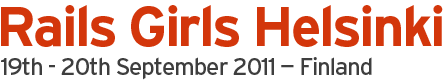
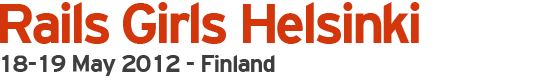
Helsinki updates

diff --git a/helsinki.html b/helsinki.html
@@ -3,7 +3,7 @@
 <head>
 <meta charset="utf-8">
  
-  <title>Helsinki on 23rd -24th March 2012 - Rails Girls</title>
+  <title>Helsinki on 18th-19th May 2012 - Rails Girls</title>
   <meta name="description" content="Women, join the Internet playground. One day crash-course to the exciting world of building web applications.">
   <meta name="author" content="Rails Girls">
  
@@ -31,6 +31,7 @@
             <a href="./materials.html">Materials</a>
             <a href="./press.html">Press</a>
             <a href="http://blog.railsgirls.com">Blog</a>  
+            <a href="http://guides.railsgirls.com">Guide</a>  
         </nav>
     </div>
     </header>
@@ -40,9 +41,9 @@
     <div id="container" class="container_12 page clearfix">
       <div class="grid_12 omega alpha">
         <div id="promo">
-        <h1>Rails Girls Helsinki 23-24th March 2012  - Finland</h1>
+        <h1>Rails Girls Helsinki 18-19th May 2012  - Finland</h1>
         <p>Women, join the Internet playground. One-day crash-course  
-          to the exciting world of building web applications with Ruby on Rails. 
+          to the exciting world of building web applications with Ruby on Rails. <a href="http://railsgirls.wufoo.com/forms/k7x1s7/">Apply now!</a>
         </p>
         <p>
           <div id="share">
@@ -52,7 +53,7 @@
             </div>
 
             <div style="margin:0 15px 0 0;">
-              <a href="http://twitter.com/share" class="twitter-share-button" data-url="" data-text="Rails Girls Helsinki on 23-24th March" data-count="horizontal" data-via="railsgirls" data-related="karrisaarinen">
+              <a href="http://twitter.com/share" class="twitter-share-button" data-url="" data-text="Rails Girls Helsinki on 18-19th May" data-count="horizontal" data-via="railsgirls" data-related="railsgirls">
             Tweet</a>
               <script type="text/javascript" src="http://platform.twitter.com/widgets.js"></script>
             </div>
@@ -72,21 +73,53 @@
         <p><strong>You learn</strong> designing, prototyping and coding by doing it with help from our coaches.</p>
       </div>
       <div class="grid_4 omega feature">
-        <p><strong>You want to help?</strong> We are looking for volunteers and Rails coaches. <a href="mailto:team@railsgirls.com">Email us</a>.</p>
+        <p><strong>You want to help?</strong> We are looking for volunteers, sponsors and Rails coaches. <a href="mailto:linda@railsgirls.com">Email us</a>.</p>
       </div>
       
-    
+    <div class="grid_12 coaches">
+      <hr />
+      <h2>Helsinki coaches & team </h2>
+      
+        <a href="http://twitter.com/satusuuronen" class="grid_3">
+          <img src="./images/ruby-100.png">
+          Satu Suuronen, organizer
+          <small>@satusuuronen</small>
+        </a>
+        <a href="http://twitter.com/heinider" class="grid_3">
+          <img src="./images/ruby-100.png">
+          Heini Vesander, organizer
+          <small>@heinider</small>
+        </a>
+        <a href="https://twitter.com/#!/jukkajokelainen" class="grid_3">
+          <img src="./images/ruby-100.png">
+          Jukka Jokelainen, coach
+          <small>jukkajokelainen/small>
+        </a>
+        <a href="http://twitter.com/totobogy" class="grid_3"> 
+          <img src="./images/ruby-100.png">
+          Tushar Malhotra, coach
+          <small>@totobogy</small>
+        </a>
+        
+         <a href="http://twitter.com/lindaliukas" class="grid_3">
+            <img src="./images/ruby-100.png">
+            Linda Liukas, organizer
+            <small>@lindaliukas</small>
+          </a>
+        
+        
+    </div>
       
       <hr/>
       <div class="grid_6 alpha">
-        <h2>Monday 19th September</h2>
+        <h2>Friday 18th May </h2>
         <table id="schedule">
           <tbody>
             <tr>
               <th>18.00 -</th>
               <td>
-                <h4>Pre-conference mixer at <a href="http://www.vltava.fi/">Vltava</a></h4>
-                  Get know the attendees a little bit before hand. Bring your laptop if you can, so we can install Ruby on Rails for you.
+                <h4>Installation party</h4>
+                  Get know the attendees a little bit before hand. Bring your laptop, so we can help you install Ruby on Rails on your computer. 
               </td>
             </tr>
           </tbody>
@@ -94,7 +127,7 @@
         
         <hr />          
         
-        <h2>Tuesday 20th September</h2>
+        <h2>Saturday 19th May</h2>
         
         <table id="schedule">
           <tbody>
@@ -174,31 +207,23 @@
           </tr>
           </tbody>
         </table>
-        
-         <h2>Photos from past events</h2>
-          <object width="960" height="600"> <param name="flashvars" value="offsite=true&lang=en-us&page_show_url=%2Fphotos%2Ftuutip%2Fsets%2F72157627635359667%2Fshow%2F&page_show_back_url=%2Fphotos%2Ftuutip%2Fsets%2F72157627635359667%2F&set_id=72157627635359667&jump_to="></param> <param name="movie" value="http://www.flickr.com/apps/slideshow/show.swf?v=107931"></param> <param name="allowFullScreen" value="true"></param><embed type="application/x-shockwave-flash" src="http://www.flickr.com/apps/slideshow/show.swf?v=107931" allowFullScreen="true" flashvars="offsite=true&lang=en-us&page_show_url=%2Fphotos%2Ftuutip%2Fsets%2F72157627635359667%2Fshow%2F&page_show_back_url=%2Fphotos%2Ftuutip%2Fsets%2F72157627635359667%2F&set_id=72157627635359667&jump_to=" width="960" height="600"></embed></object>
-      </div>
-      
-      
-      <div class="grid_5 push_1 omega side">
-        <h3>Keynote speaker <br/><span>Jessica Allen, Engine Yard</span></h3>
-        <img src="images/jessica.jpg" alt="Jessica Allen" style="float:right; margin:0 0 10px 10px;" width="120"/>
-        <p>Jessica is a designer and web developer based in San Francisco. Currently working for Engine Yard, she is also into coffee, the 1960's, front-end, punk music, mac accessories, web type, crafts, and comics.
-        </p>
-        <p> Follow Jessica at <a href="http://twitter.com/jessicaspacekat">@jessicaspacekat</a> and <a href="http://pixelpopdev.com">pixelpopdev.com</a></p>
-        
-        <h3>Organized with Frozen Rails</h3>
-        <p>This time Rails Girls organized as a co-event with international Rails conference <strong>Frozen Rails</strong>. Both events take place at Finland Hall. 
-        </p><p>
-          <a href="http://frozenrails.eu">Learn more about Frozen Rail</a>
-        </p>
-        
+ 
+         </div>
+
+          <div class="grid_5 push_1 omega side">
+            
         <h3>Information</h3>
         <p>
-          <strong>Where:</strong> Finlandia Hall, near Helsinki Hall<br/>
-          <strong>Application Deadline:</strong> 9 September 2011<br />
-          <strong>Acceptances informed:</strong> 12 September 2011<br />
+          <strong>Where:</strong> Aalto Venture Garage, Betonimiehenkuja 5. See map <br/>
+          <strong><a href="http://railsgirls.wufoo.com/forms/k7x1s7/">Application Deadline:</a></strong> 15th May 2012<br />
+          <strong>Acceptances informed:</strong> 16th May May 2012<br />
         </p>
+        
+        <h3>Partners</h3>
+        <p>Rails Girls is co-organized with our awesome partners.</p><p>
+           <p>Want to help? We're looking for partners & sponsors! E-mail us at contact (a) railsgirls.com</p>
+        
+        <h3>What they say about us</h3>
         
         <h3>FAQ</h3>
          <p><strong>How much does the workshop cost?</strong>
@@ -218,13 +243,31 @@
         </p>
         <p>
           <strong>I know how to program - How can I help?</strong>
-          We’re also looking for people to be coaches. We’ll have a two-three hour workshop before the event to walk you through the curriculum. <a href="mailto:team@railsgirls.com">Email us</a>
+          We’re also looking for people to be coaches. We’ll have a dinner together before the event to walk you through the curriculum. <a href="mailto:linda@railsgirls.com">Email us</a>
         </p>
       </div>
       
+      <hr>
+      <h1>Past events in Helsinki</h1>
+      
+    
+      <h2>19-20th September 2011 - Finland</h2>
+      <p>Held together with Frozen Rails conference the second Rails Girls Helsinki had altogether 30 participants and over 75 applications. Our keynote speaker Jessica Allen, as well as our badge-making machine proved to be instant hits. 
+          
+          
+             <h2>Photos from past events</h2>
+              <object width="960" height="600"> <param name="flashvars" value="offsite=true&lang=en-us&page_show_url=%2Fphotos%2Ftuutip%2Fsets%2F72157627635359667%2Fshow%2F&page_show_back_url=%2Fphotos%2Ftuutip%2Fsets%2F72157627635359667%2F&set_id=72157627635359667&jump_to="></param> <param name="movie" value="http://www.flickr.com/apps/slideshow/show.swf?v=107931"></param> <param name="allowFullScreen" value="true"></param><embed type="application/x-shockwave-flash" src="http://www.flickr.com/apps/slideshow/show.swf?v=107931" allowFullScreen="true" flashvars="offsite=true&lang=en-us&page_show_url=%2Fphotos%2Ftuutip%2Fsets%2F72157627635359667%2Fshow%2F&page_show_back_url=%2Fphotos%2Ftuutip%2Fsets%2F72157627635359667%2F&set_id=72157627635359667&jump_to=" width="960" height="600"></embed></object>
+        
+            <h3>Keynote speaker <br/><span>Jessica Allen, Engine Yard</span></h3>
+            <img src="images/jessica.jpg" alt="Jessica Allen" style="float:right; margin:0 0 10px 10px;" width="120"/>
+            <p>Jessica is a designer and web developer based in San Francisco. Currently working for Engine Yard, she is also into coffee, the 1960's, front-end, punk music, mac accessories, web type, crafts, and comics.
+            </p>
+            <p> Follow Jessica at <a href="http://twitter.com/jessicaspacekat">@jessicaspacekat</a> and <a href="http://pixelpopdev.com">pixelpopdev.com</a></p>
+
+        
       <div class="grid_12 coaches">
         <hr />
-        <h2>Helsinki Coaches</h2>
+        <h2>Helsinki Coaches 19-20th September 2011</h2>
         
           <a href="http://twitter.com/vesan" class="grid_3">
             <img src="./images/ruby-100.png">
@@ -273,7 +316,7 @@
     <!-- /content -->
     
     <footer>
-        <p>2010-2011, Rails Girls. <a href="./press.html">Contact us</a> or follow us on <a href="http://twitter.com/railsgirls">Twitter</a> and <a href="https://www.facebook.com/pages/Rails-Girls/136157603144471">Facebook</a></p>
+        <p>2010-2012, Rails Girls. <a href="./press.html">Contact us</a> or follow us on <a href="http://twitter.com/railsgirls">Twitter</a> and <a href="https://www.facebook.com/pages/Rails-Girls/136157603144471">Facebook</a></p>
         <p class="slogan">Get excited and make things!</p>
     </footer>
       <script type="text/javascript">

diff --git a/helsinki3.html b/helsinki3.html
@@ -3,7 +3,7 @@
 <head>
 <meta charset="utf-8">
  
-  <title>Helsinki on 18th -19th May 2012 - Rails Girls</title>
+  <title>Helsinki on 23rd -24th March 2012 - Rails Girls</title>
   <meta name="description" content="Women, join the Internet playground. One day crash-course to the exciting world of building web applications.">
   <meta name="author" content="Rails Girls">
  
@@ -31,7 +31,6 @@
             <a href="./materials.html">Materials</a>
             <a href="./press.html">Press</a>
             <a href="http://blog.railsgirls.com">Blog</a>  
-            <a href="http://guides.railsgirls.com">Guide</a>  
         </nav>
     </div>
     </header>
@@ -41,7 +40,7 @@
     <div id="container" class="container_12 page clearfix">
       <div class="grid_12 omega alpha">
         <div id="promo">
-        <h1>Rails Girls Helsinki 18-19th May 2012  - Finland</h1>
+        <h1>Rails Girls Helsinki 23-24th March 2012  - Finland</h1>
         <p>Women, join the Internet playground. One-day crash-course  
           to the exciting world of building web applications with Ruby on Rails. 
         </p>
@@ -53,7 +52,7 @@
             </div>
 
             <div style="margin:0 15px 0 0;">
-              <a href="http://twitter.com/share" class="twitter-share-button" data-url="" data-text="Rails Girls Helsinki on 18-19th May" data-count="horizontal" data-via="railsgirls" data-related="karrisaarinen">
+              <a href="http://twitter.com/share" class="twitter-share-button" data-url="" data-text="Rails Girls Helsinki on 23-24th March" data-count="horizontal" data-via="railsgirls" data-related="karrisaarinen">
             Tweet</a>
               <script type="text/javascript" src="http://platform.twitter.com/widgets.js"></script>
             </div>
@@ -73,65 +72,21 @@
         <p><strong>You learn</strong> designing, prototyping and coding by doing it with help from our coaches.</p>
       </div>
       <div class="grid_4 omega feature">
-        <p><strong>You want to help?</strong> We are looking for volunteers, sponsors and Rails coaches. <a href="mailto:linda@railsgirls.com">Email us</a>.</p>
+        <p><strong>You want to help?</strong> We are looking for volunteers and Rails coaches. <a href="mailto:team@railsgirls.com">Email us</a>.</p>
       </div>
       
-    <div class="grid_12 coaches">
-      <hr />
-      <h2>Helsinki coaches & team </h2>
-      
-        <a href="http://twitter.com/satusuuronen" class="grid_3">
-          <img src="./images/ruby-100.png">
-          Satu Suuronen, organizer
-          <small>@satusuuronen</small>
-        </a>
-        <a href="http://twitter.com/heinider" class="grid_3">
-          <img src="./images/ruby-100.png">
-          Heini Vesander, organizer
-          <small>@heinider</small>
-        </a>
-        <a href="https://github.com/arttu" class="grid_3">
-          <img src="./images/ruby-100.png">
-          Arttu Tervo
-          <small>arttu</small>
-        </a>
-        <a href="http://twitter.com/therttua" class="grid_3"> 
-          <img src="./images/ruby-100.png">
-          Timo Herttua
-          <small>@therttua</small>
-        </a>
-        <a href="http://twitter.com/rane" class="grid_3">
-          <img src="./images/ruby-100.png">
-          Raine Virta
-          <small>@rane</small>
-        </a>
-        <a href="http://twitter.com/jessicaspacekat" class="grid_3">
-          <img src="./images/ruby-100.png">
-          Jessica Allen
-          <small>@jessicaspacekat</small>
-        </a>
-        <a href="http://twitter.com/lindaliukas" class="grid_3">
-          <img src="./images/ruby-100.png">
-          Linda Liukas
-          <small>@lindaliukas</small>
-        </a>
-        <a href="http://twitter.com/karrisaarinen" class="grid_3">
-          <img src="./images/ruby-100.png">
-          Karri Saarinen
-          <small>@karrisaarinen</small>
-        </a>
-    </div>
+    
       
       <hr/>
       <div class="grid_6 alpha">
-        <h2>Friday 18th May </h2>
+        <h2>Monday 19th September</h2>
         <table id="schedule">
           <tbody>
             <tr>
               <th>18.00 -</th>
               <td>
-                <h4>Installation party</h4>
-                  Get know the attendees a little bit before hand. Bring your laptop, so we can help you install Ruby on Rails on your computer. 
+                <h4>Pre-conference mixer at <a href="http://www.vltava.fi/">Vltava</a></h4>
+                  Get know the attendees a little bit before hand. Bring your laptop if you can, so we can install Ruby on Rails for you.
               </td>
             </tr>
           </tbody>
@@ -139,7 +94,7 @@
         
         <hr />          
         
-        <h2>Saturday 19th May</h2>
+        <h2>Tuesday 20th September</h2>
         
         <table id="schedule">
           <tbody>
@@ -219,23 +174,31 @@
           </tr>
           </tbody>
         </table>
- 
-         </div>
-
-          <div class="grid_5 push_1 omega side">
-            
-        <h3>Information</h3>
-        <p>
-          <strong>Where:</strong> Aalto Venture Garage, Betonimiehenkuja 5. See map <br/>
-          <strong>Application Deadline:</strong> 15th May 2012<br />
-          <strong>Acceptances informed:</strong> 16th May May 2012<br />
+        
+         <h2>Photos from past events</h2>
+          <object width="960" height="600"> <param name="flashvars" value="offsite=true&lang=en-us&page_show_url=%2Fphotos%2Ftuutip%2Fsets%2F72157627635359667%2Fshow%2F&page_show_back_url=%2Fphotos%2Ftuutip%2Fsets%2F72157627635359667%2F&set_id=72157627635359667&jump_to="></param> <param name="movie" value="http://www.flickr.com/apps/slideshow/show.swf?v=107931"></param> <param name="allowFullScreen" value="true"></param><embed type="application/x-shockwave-flash" src="http://www.flickr.com/apps/slideshow/show.swf?v=107931" allowFullScreen="true" flashvars="offsite=true&lang=en-us&page_show_url=%2Fphotos%2Ftuutip%2Fsets%2F72157627635359667%2Fshow%2F&page_show_back_url=%2Fphotos%2Ftuutip%2Fsets%2F72157627635359667%2F&set_id=72157627635359667&jump_to=" width="960" height="600"></embed></object>
+      </div>
+      
+      
+      <div class="grid_5 push_1 omega side">
+        <h3>Keynote speaker <br/><span>Jessica Allen, Engine Yard</span></h3>
+        <img src="images/jessica.jpg" alt="Jessica Allen" style="float:right; margin:0 0 10px 10px;" width="120"/>
+        <p>Jessica is a designer and web developer based in San Francisco. Currently working for Engine Yard, she is also into coffee, the 1960's, front-end, punk music, mac accessories, web type, crafts, and comics.
+        </p>
+        <p> Follow Jessica at <a href="http://twitter.com/jessicaspacekat">@jessicaspacekat</a> and <a href="http://pixelpopdev.com">pixelpopdev.com</a></p>
+        
+        <h3>Organized with Frozen Rails</h3>
+        <p>This time Rails Girls organized as a co-event with international Rails conference <strong>Frozen Rails</strong>. Both events take place at Finland Hall. 
+        </p><p>
+          <a href="http://frozenrails.eu">Learn more about Frozen Rail</a>
         </p>
         
-        <h3>Partners</h3>
-        <p>Rails Girls is co-organized with our awesome partners.</p><p>
-           <p>Want to help? We're looking for partners & sponsors! E-mail us at linda (a) railsgirls.com</p>
-        
-        <h3>What they say about us</h3>
+        <h3>Information</h3>
+        <p>
+          <strong>Where:</strong> Finlandia Hall, near Helsinki Hall<br/>
+          <strong>Application Deadline:</strong> 9 September 2011<br />
+          <strong>Acceptances informed:</strong> 12 September 2011<br />
+        </p>
         
         <h3>FAQ</h3>
          <p><strong>How much does the workshop cost?</strong>
@@ -255,31 +218,13 @@
         </p>
         <p>
           <strong>I know how to program - How can I help?</strong>
-          We’re also looking for people to be coaches. We’ll have a dinner together before the event to walk you through the curriculum. <a href="mailto:linda@railsgirls.com">Email us</a>
+          We’re also looking for people to be coaches. We’ll have a two-three hour workshop before the event to walk you through the curriculum. <a href="mailto:team@railsgirls.com">Email us</a>
         </p>
       </div>
       
-      <hr>
-      <h1>Past events in Helsinki</h1>
-      
-    
-      <h2>19-20th September 2011 - Finland</h2>
-      <p>Held together with Frozen Rails conference the second Rails Girls Helsinki had altogether 30 participants and over 75 applications. Our keynote speaker Jessica Allen, as well as our badge-making machine proved to be instant hits. 
-          
-          
-             <h2>Photos from past events</h2>
-              <object width="960" height="600"> <param name="flashvars" value="offsite=true&lang=en-us&page_show_url=%2Fphotos%2Ftuutip%2Fsets%2F72157627635359667%2Fshow%2F&page_show_back_url=%2Fphotos%2Ftuutip%2Fsets%2F72157627635359667%2F&set_id=72157627635359667&jump_to="></param> <param name="movie" value="http://www.flickr.com/apps/slideshow/show.swf?v=107931"></param> <param name="allowFullScreen" value="true"></param><embed type="application/x-shockwave-flash" src="http://www.flickr.com/apps/slideshow/show.swf?v=107931" allowFullScreen="true" flashvars="offsite=true&lang=en-us&page_show_url=%2Fphotos%2Ftuutip%2Fsets%2F72157627635359667%2Fshow%2F&page_show_back_url=%2Fphotos%2Ftuutip%2Fsets%2F72157627635359667%2F&set_id=72157627635359667&jump_to=" width="960" height="600"></embed></object>
-        
-            <h3>Keynote speaker <br/><span>Jessica Allen, Engine Yard</span></h3>
-            <img src="images/jessica.jpg" alt="Jessica Allen" style="float:right; margin:0 0 10px 10px;" width="120"/>
-            <p>Jessica is a designer and web developer based in San Francisco. Currently working for Engine Yard, she is also into coffee, the 1960's, front-end, punk music, mac accessories, web type, crafts, and comics.
-            </p>
-            <p> Follow Jessica at <a href="http://twitter.com/jessicaspacekat">@jessicaspacekat</a> and <a href="http://pixelpopdev.com">pixelpopdev.com</a></p>
-
-        
       <div class="grid_12 coaches">
         <hr />
-        <h2>Helsinki Coaches 19-20th September 2011</h2>
+        <h2>Helsinki Coaches</h2>
         
           <a href="http://twitter.com/vesan" class="grid_3">
             <img src="./images/ruby-100.png">
